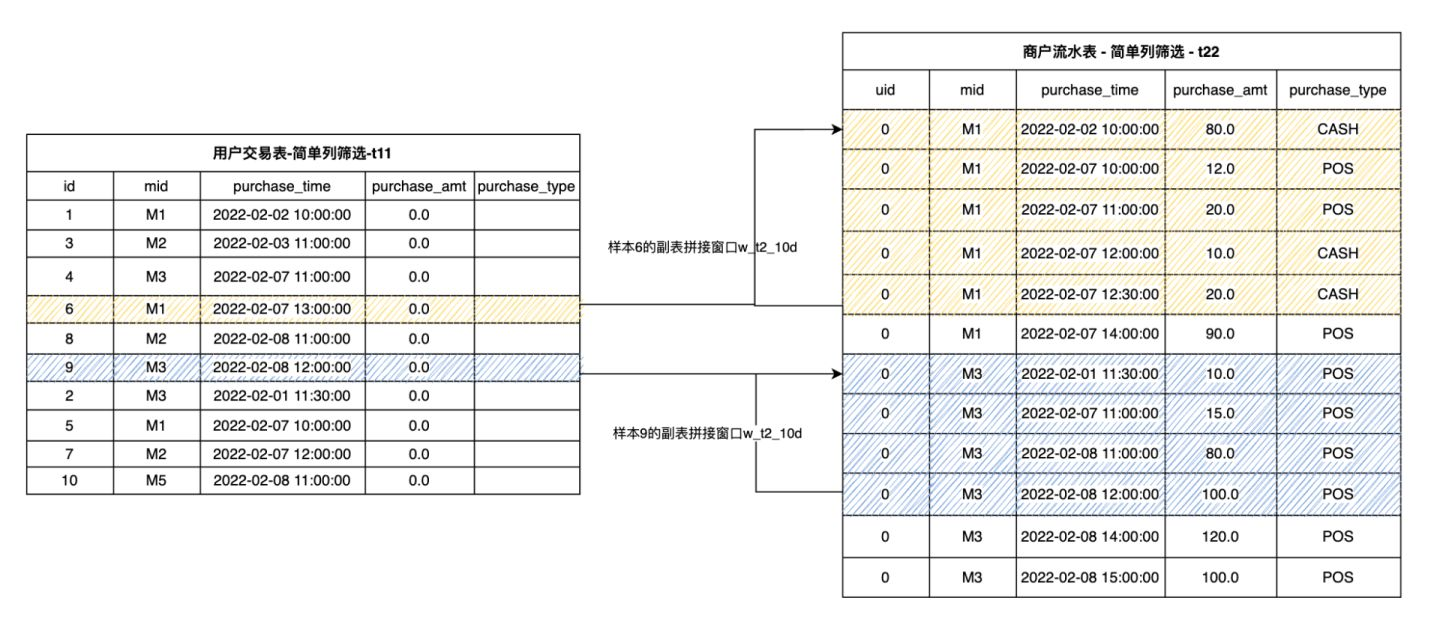
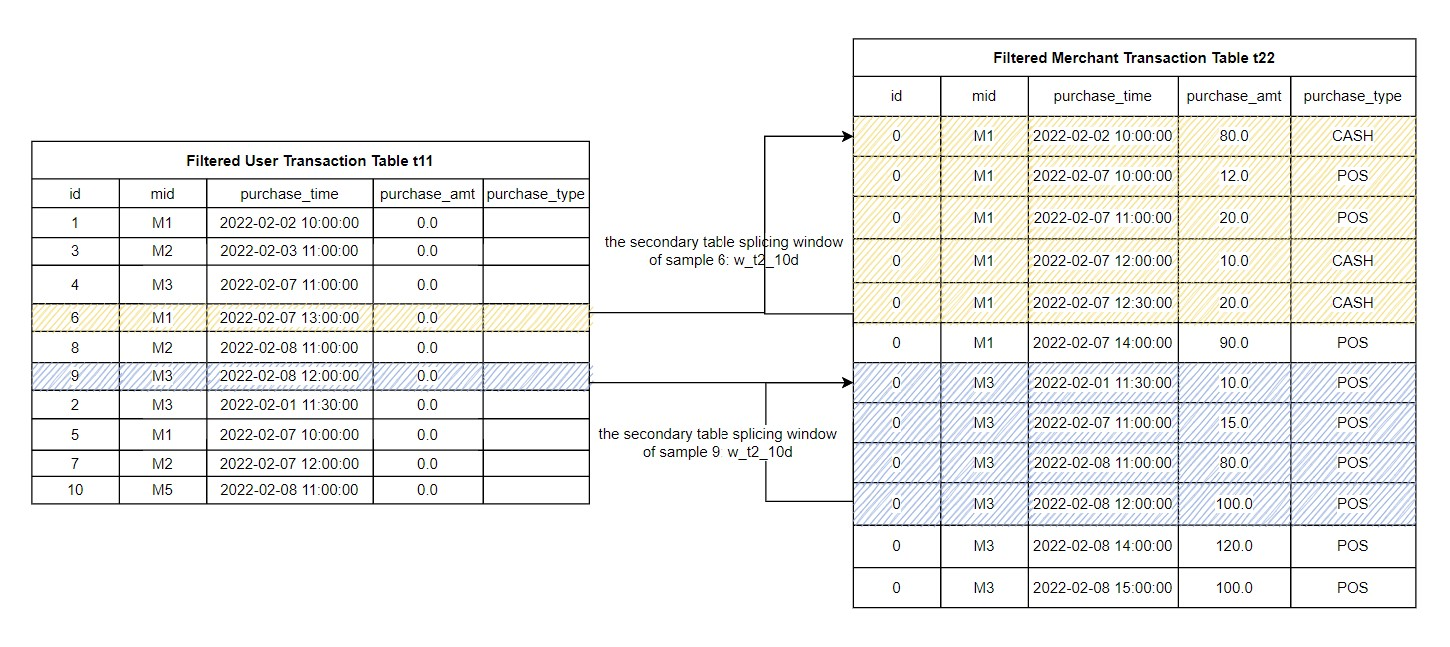
docs: improved en version of tutorial_sql2 (#2514)

Changed region(s): [[0.0, 0.0307, 1.0, 0.9822]]

diff --git a/docs/en/tutorial/tutorial_sql_2.md b/docs/en/tutorial/tutorial_sql_2.md
@@ -2,16 +2,20 @@
 
 ## 1. Preliminary Knowledge
 
-In the previous series of articles [Hands-On Tutorial for Feature Engineering Based on OpenMLDB (Part 1)](./tutorial_sql_1.md)）, we introduce the basic concepts and practical tools of Feature Engineering, as well as the basic feature script development based on single table. In this article, we will introduce in detail the more complex and powerful feature script development of the multi-table based on the main table and sub table. At the same time, we still rely on the SQL syntax provided by OpenMLDB for Feature Engineering script examples. For more information about OpenMLDB, please visit [GitHub repo of OpenMLDB](https://github.com/4paradigm/OpenMLDB), and the [document website](http://docs-cn.openmldb.ai/).
+In the previous series of articles [SQL for Feature Extraction (Part 1)](./tutorial_sql_1.md), we introduce the basic concepts and practical tools of feature engineering, as well as the basic feature processing script development based on a single table. In this article, we will introduce more complex and more powerful feature processing script development on multi-tables. 
+At the same time, we will take the SQL syntax of OpenMLDB as an example for SQL-based feature engineering development. For more information about OpenMLDB, please visit [GitHub repo of OpenMLDB](https://github.com/4paradigm/OpenMLDB), and the [document website](https://openmldb.ai/docs/en/main/).
 
-If you want to run the SQL illustrated in this tutorial, please follow the following two steps to prepare:
+If you want to run the SQL in this tutorial, please follow the following two steps to prepare:
 
-- It is recommended to use the OpenMLDB docker image to run this tutorial under **Stand-alone Version**. Refer to [OpenMLDB Quick Start](http://docs-cn.openmldb.ai/2620852) for the operation mode. If using the clustered version, please use the offline mode（`SET @@execute_mode='offline'` ）. The common online mode of the cluster version only supports the simple data preview function, so most of the SQL in the tutorial cannot be run.
+- It is recommended to use the OpenMLDB docker image under **Standalone Version**. Refer to [OpenMLDB Quick Start](../quickstart/openmldb_quickstart.md) for the operation mode. If using the cluster version, please use the **Offline** mode (`SET @@execute_mode='offline'` ). The CLI tool of cluster version is only available under **Offline** mode and **Online Preview** mode. The Online Preview mode only can be used for simple data preview, so most of the SQL in the tutorial cannot run in this mode.
 - All data related to this tutorial and the import operation script can be downloaded [here](https://openmldb.ai/download/tutorial_sql/tutoral_sql_data.zip).
 
-In this article, we will use the main table and sub table to illustrate. We still use the sample data of anti-fraud transactions in the previous article, including a main table user transaction table (Table 1, t1) and a sub table merchant flow table (Table 2, t2). In order to avoid the consistency of multiple data tables in the database design, it is necessary to store multiple data tables in the database design according to the general design principle. In Feature Engineering, in order to obtain enough effective information, data needs to be extracted from multiple tables thus, Feature Engineering needs to be carried out based on multiple tables.
+In this article, the data set consists of a main table (holding the labels) and other secondary tables. We still use the sample data of anti-fraud transactions in the previous article, including a main table: user transaction table (Table 1, t1) and a secondary table: merchant flow table (Table 2, t2). 
+In the design of relational database, in order to avoid data redundancy and ensure data consistency, commonly, the data are stored in multiple tables according to design principles (database design paradigm). 
+In feature engineering, in order to obtain enough effective information, data needs to be extracted from multiple tables. As a result, feature engineering needs to be carried out based on multiple tables.
 
-**Table 1: Main Table, User Transaction Table t1**
+
+**Main Table: User Transaction Table, t1**
 
 | Field      | Type      | Description                             |
 | ---------- | --------- | --------------------------------------- |
@@ -26,7 +30,7 @@ In this article, we will use the main table and sub table to illustrate. We stil
 | city       | STRING    | City                                    |
 | label      | BOOL      | Sample label, true\|false               |
 
-**Sub Table: Table 2, Merchant Flow Table t2**
+**Table 2: Merchant Transaction Table, t2**
 
 | Field         | Type      | Description                      |
 | ------------- | --------- | -------------------------------- |
@@ -36,13 +40,10 @@ In this article, we will use the main table and sub table to illustrate. We stil
 | purchase_amt  | DOUBLE    | Purchase Amount                  |
 | purchase_type | STRING    | Purchase Type: Cash, Credit Card |
 
-In the traditional relational database, in order to obtain the information of multiple tables, the most common way is to use join for splicing. However, for the requirements of Feature Engineering, the database join can not meet the requirements very efficiently. The main reason is that our main table sample table has a label column for model training, and each value can only correspond to one row of data records. Therefore, in practice, we hope that after join, the number of rows in the result table should be consistent with that in the main table.
 
-## 2. Sub Table Single Line Feature
+## 2. LAST JOIN
 
-## 2.1 LAST JOIN
-
-OpenMLDB currently supports`LAST JOIN`to perform database like join operations. LAST JOIN can be regarded as a special LEFT JOIN. On the premise of meeting the JOIN conditions, each row of the left table will spell the last row that meets the conditions. LAST JOIN is divided into disordered splicing and ordered splicing. Let's take a simpler table as an example and assume that the schemas of tables s1 and s2 are
+OpenMLDB supports`LAST JOIN` as a variant of LEFT JOIN that is supported in the standard SQL. For each record in the left table, when there are multiple records matched from the right table, only one record will be output as the result. There are two types of LAST JOIN: ordered and non-ordered LAST JOIN. Let's take a simple table as an example and assume that both the schemas of tables s1 and s2 are
 
 ```sql
 (id int, col1 string, std_ts timestamp)
@@ -51,98 +52,111 @@ OpenMLDB currently supports`LAST JOIN`to perform database like join operations. 
 Then, we can do the following join operation:
 
 ```sql
--- des c: In view of LAST JOIN splicing based on ORDER BY
 SELECT * FROM s1 LAST JOIN s2 ORDER BY s2.std_ts ON s1.col1 = s2.col1;
 ```
 
-As shown below, when `LAST JOIN` configure in `ORDER BY`，right click `std_ts` sort and splice the last hit data row. Take the second behavior of the left table as an example. There are 2 qualified right tables. Press `std_ts` after sorting and select the last item `3, b, 2020-05-20 10:11:13` .
+As shown below, left table `LAST JOIN` right table with `ORDER BY` and right table is sorted by  `std_ts`. Take the second row of the left table as an example. There are two matched rows in right table. After sorting by `std_ts` the last row `3, b, 2020-05-20 10:11:13` is selected.
 
 ![img](images/lastjoin_1.jpg)
 
 ![img](images/lastjoin_2.jpg)
 
-## 3. Multi-Row Aggregation Feature of Sub Table
+## 3. Multi-Row Aggregation  over Multiple Tables
 
-For the sub table splicing scenario, OpenMLDB extends the standard window syntax and adds [WINDOW UNION]( http://docs-cn.openmldb.ai/2620896) characteristic. It supports splicing multiple pieces of data from the sub table to form a sub table window. Based on the sub table splicing window, it is convenient to construct the multi-row aggregation feature of the sub table. Similarly, two steps need to be completed to construct the multi-row aggregation feature of the sub table:
+For aggregation over multiple tables, OpenMLDB extends the standard WINDOW syntax and adds [WINDOW UNION](../reference/sql/dql/WINDOW_CLAUSE.md#window-union) syntax. 
+WINDOW UNION supports combining multiple pieces of data from the secondary table to form a window on secondary table.
+Based on the time window, it is convenient to construct the multi-row aggregation feature of the secondary table. 
+Similarly, two steps need to be completed to construct the multi-row aggregation feature of the secondary table:
 
-- Step 1: Define the sub table splicing window.
-- Step 2: Construct the multi-row aggregation feature of the sub table on the sub table splicing window.
+- Step 1: Define the time window over multiple tables.
+- Step 2: Construct the multi-row aggregation feature of the secondary table on the window constructed in Step 1.
 
-## 3.1 Step 1: Define the Sub Table Splicing Window
+### 3.1 Step 1: Define the Time Window over Multiple Tables
 
-Each sample row of the main table can splice multiple rows of data according to a column from the sub table, and it is allowed to define the time interval or number interval of spliced data. We use the special window syntax WINDOW UNION to define the sub table splicing condition and interval range. For the convenience of understanding, we call this kind of window as sub table splicing window.
+Each row of the main table can concat multiple rows from the secondary table according to a certain column, and it is allowed to define the time interval or number interval of the data that can be combined. We use the WINDOW UNION to define the secondary table combining condition and interval range. To make it easier to understand, we call this kind of windows as secondary table combining windows.
 
-The syntax of sub table splicing window is defined as:
+The syntax of creating a secondary table combining window is defined as:
 
 ```sql
 window window_name as (UNION other_table PARTITION BY key_col ORDER BY order_col ROWS_RANGE｜ROWS BETWEEN StartFrameBound AND EndFrameBound)
 ```
 
-Among them, the most basic and indispensable grammatical elements include:
+Among them, necessary elements include:
 
-- `UNION other_table`： `other_table` refers to the secondary table for WINDOW UNIOB. The primary and secondary tables need to keep the schema consistent. In most cases, the schema of the primary table and the secondary table are different. Therefore, we can ensure that the schema of the primary and secondary tables involved in window calculation is consistent by column filtering and default column configuration for the primary and secondary tables. Column filtering can also remove useless columns and only do WINDOW UNION and aggregation on key columns.
+- `UNION other_table`: `other_table` refers to the secondary table for WINDOW UNION. The primary and secondary tables' schemas need to keep consistent. In most cases, the schema of the primary table and the secondary table are different. We can ensure the schema consistency of the primary and secondary tables involved in window calculation by column projection and default column configuration. Column projection can also remove useless columns and only do WINDOW UNION and aggregation on important columns.
 
-- `PARTITION BY key_col`: Indicates by column `key_col` splice matching data from the secondary table.
+- `PARTITION BY key_col`: Indicates that main table and secondary table are combined according to column `key_col`.
 
-- `ORDER BY order_col`: Indicates that the sub table splicing data set is in accordance with`order_col`sorting columns
+- `ORDER BY order_col`: Indicates that the secondary table is sorted in accordance with`order_col` columns.
 
-- `ROWS_RANGE BETWEEN StartFrameBound AND EndFrameBound`: Represents the time interval of the sub table splicing window
+- `ROWS_RANGE BETWEEN StartFrameBound AND EndFrameBound`: Represents the time interval of the secondary table combining window.
 
-- - `StartFrameBound`Represents the upper bound of the window.
+  - `StartFrameBound` represents the upper bound of the window.
 
-  - - `UNBOUNDED PRECEDING`: No upper bound.
-    - `time_expression PRECEDING`: If it is a time interval, you can define a time offset. For example, `30d preceding` means that the upper bound of the window is the time of the current line - 30 days.
+    - `UNBOUNDED PRECEDING`: There is no upper bound.
+    - `time_expression PRECEDING`: If it is a time interval, you can define a time offset. For example, `30d preceding` means that the upper bound of the window is 30 days before the time of the current row.
 
-  - `EndFrameBound`Represents the lower bound of the time window.
+  - `EndFrameBound` Represents the lower bound of the time window.
 
-  - - `CURRENT ROW`： Current row
-    - `time_expression PRECEDING`: If it is a time interval, you can define a time offset, such as `1d PRECEDING`. This indicates that the lower bound of the window is the time of the current line - 1 day.
+    - `CURRENT ROW`: The lower bound is current row.
+    - `time_expression PRECEDING`: If it is a time interval, you can define a time offset, such as `1d PRECEDING`. This indicates that the lower bound of the window is 1 day before the time of the current row. 
 
-- `ROWS BETWEEN StartFrameBound AND EndFrameBound`: Represents the time interval of the sub table splicing window.
+- `ROWS BETWEEN StartFrameBound AND EndFrameBound`: Represents the time interval of the secondary table combining window.
 
-- - `StartFrameBound`Represents the upper bound of the window.
+  - `StartFrameBound` represents the upper bound of the window.
 
-  - - `UNBOUNDED PRECEDING`: No upper bound.
-    - `number PRECEDING`: If it is a number interval, you can define the number of time items. For example, `100 PRECEDING` indicates the first 100 lines of the current line whose upper bound is.
+    - `UNBOUNDED PRECEDING`: There is no upper bound.
+    - `number PRECEDING`: If it is a number interval, you can define the number of rows. For example, `100 PRECEDING` indicates that the upper bound is 100 lines before the current row.
+ 
+  - `EndFrameBound` Represents the lower bound of the window.
 
-  - `EndFrameBound`Represents the lower bound of the time window.
+    - `CURRENT ROW`: The lower bound is current row.
+    - `number PRECEDING`: If it is a number interval, you can define the number of rows. For example, `1 PRECEDING`  indicates that the lower bound is 1 line before the current line.
 
-  - - `CURRENT ROW`： Current row
-    - `number PRECEDING`: If it is a number window, you can define the number of time bars. For example,`1 PRECEDING` indicates the first line of the current line whose upper bound is
+  
 
-- When configuring the window interval boundary, please note:
 
-- - At present, OpenMLDB cannot support the time after the current row as the upper and lower bounds. For example, `1d FOLLOWING`. In other words, we can only deal with the historical time window. This also basically meets most of the application scenarios of Feature Engineering.
-  - Lower bound time of OpenMLDB must be > = Upper bound time
-  - The number of lower bounds of OpenMLDB must be < = The number of upper bounds
+```{note}
+- When configuring the window interval boundary, please note that:
+  - At present, OpenMLDB cannot support the time after the current row as the upper and lower bounds. For example, `1d FOLLOWING` is not supported. In other words, we can only deal with the historical time window. This also basically meets most of the application scenarios of feature engineering.
+  - Lower bound time  must be > = Upper bound time
+  - The row number of lower bound must be < = The row number of upper bound
+- `INSTANCE_NOT_IN_WINDOW`: It indicates that except for the current row, other data in the main table will not enter the window.
+- For more syntax and features, please refer to [OpenMLDB WINDOW UNION Reference Manual](../reference/sql/dql/WINDOW_CLAUSE.md).
+```
 
-- `INSTANCE_NOT_IN_WINDOW`: Mark as a secondary table splicing window. Except for the current row, other data in the main table will not enter the window.
+### Example
 
-For more syntax and features, please refer to [OpenMLDB WINDOW UNION Reference Manual](https://link.zhihu.com/?target=http%3A//docs-cn.openmldb.ai/2620896).
+Let's see the usage of WINDOW UNION through specific examples. 
 
-The following describes the splicing window definition operation of WINDOW UNION through specific examples. For the user transaction table t1 mentioned above, we need to define the splicing window on the sub table of merchant flow table t2, which is based on `mid`. Because the schemas of t1 and t2 are different, we first extract the same columns from t1 and t2 respectively. For non-existent columns, you can configure default values. Among them, `mid` column is used for the splicing of two tables, so it is necessary. Secondly, the timestamp column（`trans_time` in t1 and `purchase_time` in t2）contains timing information, which is also necessary when defining the time window; The remaining columns are filtered and retained as required by the aggregation function.
+For the user transaction table t1 mentioned above, we define a window over the secondary table, that is merchant flow table t2, based on `mid`.
+Because the schemas of t1 and t2 are different, we extract the same columns from t1 and t2 respectively. For non-existent columns, we set default values. 
+Among them, `mid` column is used as the combining condition of two tables, so it must be included. Secondly, the timestamp column（`trans_time` in t1 and `purchase_time` in t2）contains timing information, which is also necessary when defining the time window. The remaining columns are filtered and retained as required according to the aggregation function.
 
-The following SQL and schematic diagrams extract the necessary columns from t1 to generate t11.
 
+
+The following SQL and images show how to extract necessary columns from t1 to generate t11.
 ```sql
 (select id, mid, trans_time as purchase_time, 0.0 as purchase_amt, "" as purchase_type from t1) as t11
 ```
 
 ![img](images/t1_to_t11.jpg)
 
-The following SQL and diagram extract the necessary columns from t2 to generate t22.
-
+The following SQL extracts the necessary columns from t2 to generate t22.
 ```sql
 (select 0L as id, mid, purchase_time, purchase_amt, purchase_type from t2) as t22
 ```
 
 ![img](images/t2_to_t22.jpg)
 
-It can be seen that the tables t11 and t22 generated after extraction have the same schema, and they can perform logical union operation. However, in OpenMLDB, the WINDOW UNION is not really for the UNION operation in the traditional database, but to build the time window on the sub table t22 for each sample row in t11. According to the merchant ID `mid` ，we obtain the corresponding splicing data from t22 for each row of data in t11, and then sort it according to the consumption time (`purchase_time`) to construct the sub table splicing window. For example, we define a `w_t2_10d` window: It does not include the data rows of the main table except the current row, plus the data within ten days spliced by the sub table through `mid`. The schematic diagram is as follows. It can be seen that the yellow and blue shaded parts define the sub table splicing windows of sample 6 and sample 9 respectively.
+It can be seen that the newly generated t11 and t22 have the same schema, and they can perform logical union operation. However, in OpenMLDB, the WINDOW UNION is not really the same as the UNION operation in the traditional database, but to build the time window on the secondary table t22 for each row in t11. 
+According to the merchant ID `mid`, we obtain the corresponding rows from t22 for each row in t11, and then sort them according to the consumption time (`purchase_time`) to construct the secondary table combining window. 
+For example, we define a `w_t2_10d` window, which does not include the rows of the main table except the current row, but includes the data within ten days that is joint according to `mid` from the secondary table. 
+The schematic is shown below. It can be seen that the yellow and blue shaded parts respectively represent the secondary table combining windows of sample 6 and sample 9.
 
 ![img](images/t11_t22.jpg)
 
-The SQL script of the window definition process is as follows (Note that this is not a complete SQL):
+The SQL script defining the above window is shown below (note that this is not a complete SQL):
 
 ```sql
 (SELECT id, mid, trans_time as purchase_time, 0.0 as purchase_amt, "" as purchage_type FROM t1) as t11
@@ -154,8 +168,10 @@ ROWS_RANGE BETWEEN 10d PRECEDING AND 1 PRECEDING INSTANCE_NOT_IN_WINDOW)
 
 ## 3.2 Step 2: Build Multi-Row Aggregation Feature of Sub Table
 
-For the sub table splicing window, the multi-row aggregation function is processed to construct the multi-row sub table aggregation feature, so that the number of rows finally generated is the same as that of the main table. Taking the simple aggregation function as an example, we can construct the sub table splicing feature of the sample: The total retail sales of merchants in the last 10 days `w10d_merchant_purchase_amt_sum` and the total consumption times of the merchant in the last 10 days `w10d_merchant_purchase_count`. The following SQL constructs the multi-row aggregation feature based on the sub table splicing window defined in 3.1 above.
+Apply the multi-row aggregation function on the created window to construct aggregation features on multi-rows of secondary table, so that the number of rows finally generated is the same as that of the main table. 
+For example, we can construct features from the secondary table like: the total retail sales of merchants in the last 10 days `w10d_merchant_purchase_amt_sum` and the total consumption times of the merchant in the last 10 days `w10d_merchant_purchase_count`. 
 
+The following SQL constructs the multi-row aggregation feature based on the secondary table combining window defined in [3.1](#31-step-1-define-the-sub-table-splicing-window).
 ```sql
 SELECT 
 id, 
@@ -173,17 +189,17 @@ ROWS_RANGE BETWEEN 10d PRECEDING AND 1 PRECEDING INSTANCE_NOT_IN_WINDOW)
 
 ## 4. Feature Group Construction
 
-Generally speaking, a complete feature extraction script will extract dozens, hundreds or even ten of hundreds of features. We can divide these features into several groups according to the feature type, the table and window associated with the feature, and then put each group of features into different SQL sub queries. Finally, these sub queries are spliced together according to the main table ID. In this section, we will continue the previous examples to demonstrate that if various features are spliced together to form a feature wide table.
+Generally speaking, a complete feature extraction script will extract dozens or even hundreds of features. We can divide these features into several groups according to the feature type, the table and window associated with the feature, and then put each group of features into different SQL sub queries. Finally, the results of these sub queries are combined according to the main table ID. In this section, we will continue the previous examples to demonstrate how to form a feature wide table combining various features.
 
 First, we divide the features into 3 groups:
 
-| Feature Group | Feature Group Description                                    |
-| ------------- | ------------------------------------------------------------ |
-| 1             | Single line characteristics of sample users (primary table) and sample merchants (secondary table) |
-| 2             | Window aggregation characteristics of sample users (main table) in the last 30 days and window aggregation characteristics of users in the last 7 days |
-| 3             | Aggregation characteristics of sample merchants (sub table) in the last 30 days |
+| Feature Group | Description                                                                                                                                     |
+| ------------- |-------------------------------------------------------------------------------------------------------------------------------------------------|
+| 1             | Single row features of users table (primary table) and merchants table (secondary table)                                                        |
+| 2             | Window aggregation features of users table (main table) in the last 30 days and the last 7 days |
+| 3             | Aggregation features of merchants table (secondary table) in the last 30 days                                                                 |
 
-Then, we use OpenMLDB SQL to build the same set of features in the same sub query:
+Then, we use OpenMLDB SQL to create the features of the same group in one sub query:
 
 - Feature Group 1
 
@@ -253,7 +269,7 @@ Then, we use OpenMLDB SQL to build the same set of features in the same sub quer
    window w7d_merchant as (UNION (select 0L as id, mid, card, purchase_time, purchase_amt, purchase_type from t2) as t22 PARTITION BY mid ORDER BY purchase_time ROWS_RANGE BETWEEN 30d PRECEDING AND 1 PRECEDING INSTANCE_NOT_IN_WINDOW)
 ```
 
-Finally, the three groups of features are spliced together according to the main table ID:
+Finally, the three groups of features are combined according to the main table ID:
 
 ```sql
 SELECT * FROM 
@@ -321,10 +337,3 @@ SELECT * FROM
    window w7d_merchant as (UNION (select 0L as id, mid, card, purchase_time, purchase_amt, purchase_type from t2) as t22 PARTITION BY mid ORDER BY purchase_time ROWS_RANGE BETWEEN 30d PRECEDING AND 1 PRECEDING INSTANCE_NOT_IN_WINDOW)
 ) as out3 ON out1.id = out3.out3id;
 ```
-
-## 5. Extended Reading
-
-- [Open-source Machine Learning Database OpenMLDB v0.4.0 Product Introduction](https://zhuanlan.zhihu.com/p/462559609)
-- Want to quickly try the OpenMLDB to start writing feature calculation scripts? Let's take a look at [OpenMLDB Quick Start](http://docs-cn.openmldb.ai/2620852)
-- Complete SQL syntax reference document: [China Mirror Site](http://docs-cn.openmldb.ai/2620876) and  [International Site](https://docs.openmldb.ai/)
-- The first part of this series of tutorials: [4PD Developer Community: In Simple Terms, Feature Engineering - Practice Guide based on OpenMLDB (Part 1)](https://zhuanlan.zhihu.com/p/467625760)

diff --git a/docs/zh/tutorial/tutorial_sql_2.md b/docs/zh/tutorial/tutorial_sql_2.md
@@ -69,7 +69,7 @@ OpenMLDB 针对副表拼接场景，扩展了标准的 WINDOW 语法，新增了
 - 步骤一：定义副表拼接窗口。
 - 步骤二：在副表拼接窗口上构造副表多行聚合特征。
 
-## 3.1 步骤一： 定义副表拼接窗口
+### 3.1 步骤一： 定义副表拼接窗口
 
 主表的每一个样本行都可以从副表中按某列拼接多行数据，并允许定义拼接数据的时间区间或者条数区间。我们通过特殊的窗口语法 WINDOW UNION 来定义副表拼接条件和区间范围。为了便于理解，我们将这种窗口称之为**副表拼接窗口**。
 
@@ -89,27 +89,27 @@ window window_name as (UNION other_table PARTITION BY key_col ORDER BY order_col
 
 - `ROWS_RANGE BETWEEN StartFrameBound AND EndFrameBound`: 表示副表拼接窗口的时间区间
 
-  - `StartFrameBound`表示该窗口的上界。
+  - `StartFrameBound`表示该时间窗口的上界。
 
-    - `UNBOUNDED PRECEDING`: 无上界。
-    - `time_expression PRECEDING`: 如果是时间区间，可以定义时间偏移，如`30d preceding`表示窗口上界为当前行的时间的前30天。
+    - `UNBOUNDED PRECEDING`：无上界。
+    - `time_expression PRECEDING`：如果是时间区间，可以定义时间偏移，如`30d preceding`表示窗口上界为当前行的时间的前30天。
 
   - `EndFrameBound`表示该时间窗口的下界。
 
-    - `CURRENT ROW`： 当前行
-    - `time_expression PRECEDING`: 如果是时间区间，可以定义时间偏移，如`1d PRECEDING`。这表示窗口下界为当前行的时间的前1天。
+    - `CURRENT ROW`：当前行。
+    - `time_expression PRECEDING`：如果是时间区间，可以定义时间偏移，如`1d PRECEDING`。这表示窗口下界为当前行的时间的前1天。
 
 - `ROWS BETWEEN StartFrameBound AND EndFrameBound`: 表示副表拼接窗口的条数区间
 
   - `StartFrameBound`表示该窗口的上界。
 
-    - `UNBOUNDED PRECEDING`: 无上界。
-    - `number PRECEDING`: 如果是条数区间，可以定义条数。如，`100 PRECEDING`表示窗口上界为的当前行的前100行。
+    - `UNBOUNDED PRECEDING`：无上界。
+    - `number PRECEDING`：如果是条数区间，可以定义条数。如，`100 PRECEDING`表示窗口上界为的当前行的前100行。
 
-  - `EndFrameBound`表示该时间窗口的下界。
+  - `EndFrameBound`表示该窗口的下界。
 
     - `CURRENT ROW`： 当前行
-    - `number PRECEDING`: 如果是条数窗口，可以定义条数。如，`1 PRECEDING`表示窗口上界为的当前行的前1行。
+    - `number PRECEDING`：如果是条数窗口，可以定义条数。如，`1 PRECEDING`表示窗口上界为的当前行的前1行。
     
 
 ```{note}
@@ -117,7 +117,7 @@ window window_name as (UNION other_table PARTITION BY key_col ORDER BY order_col
   - OpenMLDB 目前无法支持当前行以后的时间作为上界和下界。如`1d FOLLOWING`。换言之，我们只能处理历史时间窗口。这也基本满足大部分的特征工程的应用场景。
   - OpenMLDB 的下界时间必须>=上界时间
   - OpenMLDB 的下界的条数必须<=上界条数
-- `INSTANCE_NOT_IN_WINDOW`: 标记为副表拼接窗口。主表除了当前行以外，其他数据不进入窗口。
+- `INSTANCE_NOT_IN_WINDOW`：表示主表除了当前行以外，其他数据不进入窗口。
 - 更多语法和特性可以参考 [OpenMLDB窗口UNION参考手册](../reference/sql/dql/WINDOW_CLAUSE.md)。
 
 ```
@@ -130,7 +130,7 @@ window window_name as (UNION other_table PARTITION BY key_col ORDER BY order_col
 由于 t1 和 t2 的schema不同，所以我们首先分别从 t1 和 t2 抽取相同的列，对于在某个表中不存在的列，可以配置缺省值。
 其中，`mid` 列用于两个表的拼接，所以是必须的； 其次，作为时间戳的列（t1 中的 `trans_time`，t2 中的 `purchase_time`）包含时序信息， 在定义时间窗口时候也是必须的；其余列按照聚合函数需要，进行必要的筛选保留。
 
-以下 SQL 和示意图展示了从 t1 抽取必要列，生成 t11。
+以下 SQL 和示意图展示了从 t1 抽取必要列，生成 t11的方法。
 
 ```sql
 (select id, mid, trans_time as purchase_time, 0.0 as purchase_amt, "" as purchase_type from t1) as t11
@@ -141,7 +141,7 @@ window window_name as (UNION other_table PARTITION BY key_col ORDER BY order_col
 以下 SQL 和示意图展示了从 t2 抽取必要列，生成 t22。
 
 ```sql
-(select 0 as id, mid, purchase_time, purchase_amt, purchase_type from t2) as t22
+(select 0L as id, mid, purchase_time, purchase_amt, purchase_type from t2) as t22
 ```
 
 ![img](images/t2_to_t22.png)
